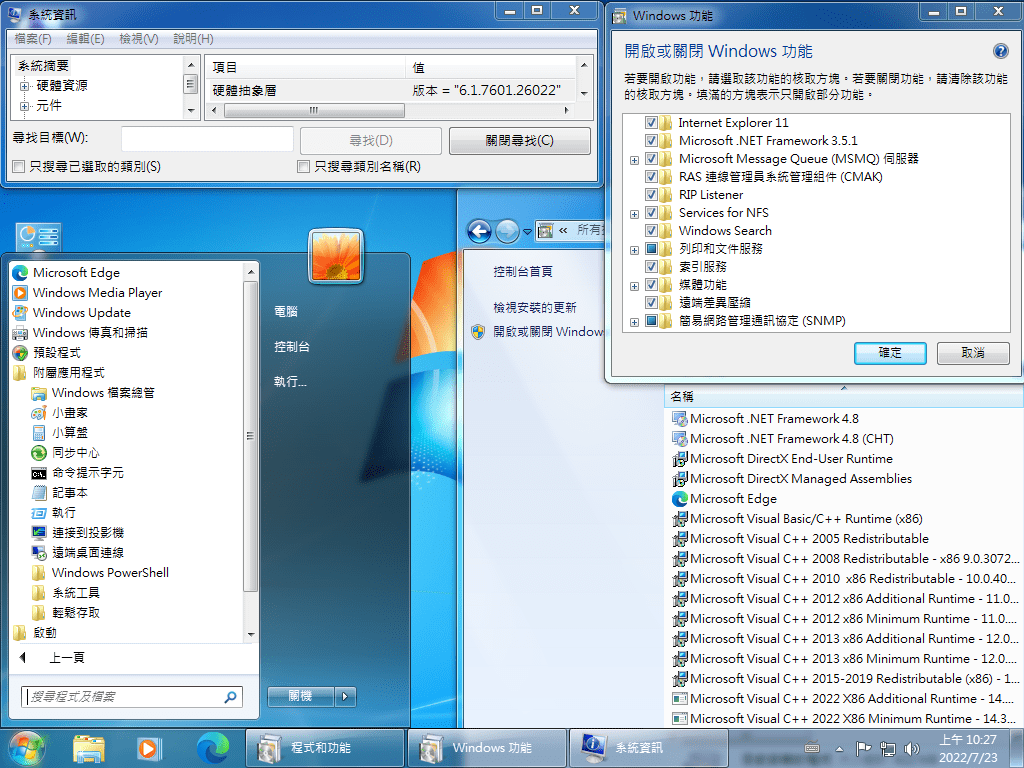
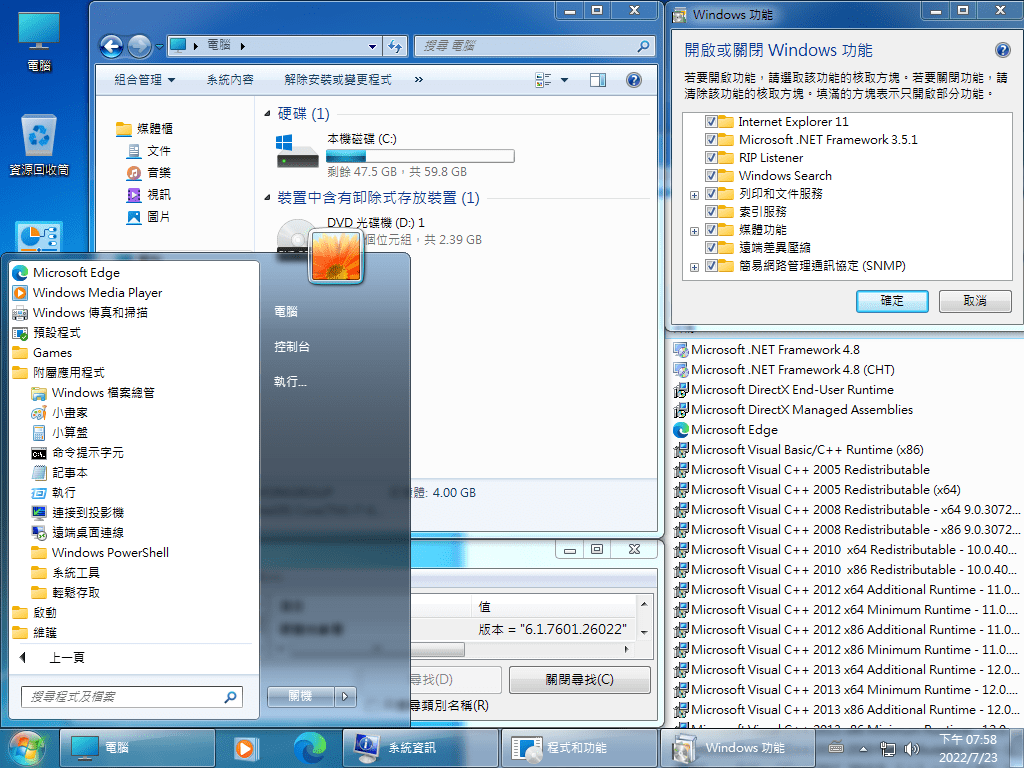
7601.26022_220723

diff --git a/experimental/README.md b/experimental/README.md
@@ -13,10 +13,38 @@ If you are interested in any version, please create an issue or discussion and s
 ----
 
 **Preview：**
-- Ver.1
 ![1](/preview/7601.26022_220723.png)
+
+#### Release Date：2022/07/23
+
+**Edition：** Windows 7 Pro
+
+**OS Build：** 7601.26022
+
+**ISO Size：** 2.39GB
+
+**Download：** not available
+
+**SHA-256：** 6105d52a8ce4e6d7d731c0d36d8408524765bff0c737ca6c3fb2606f5fd10f29
+
+**Highlights：**
+- Windows 11 Icons
+- Included ESU Updates
+- Included USB 3.0 driver
+- Included NVMe driver
+- Preinstall .NET 4.8
+- Preinstall VC++ Runtime
+- Preinstall DX9.0c
+- Preinstall Edge Chromium Enterprise
+- Debloated
+
+----
+
+**Preview：**
+- Ver.1
+![1](/preview/7601.26022_x86_220723.png)
 - Ver.2
-![1](/preview/7601.26022_220723_2.png)
+![1](/preview/7601.26022_x86_220723_2.png)
 
 #### Release Date：2022/07/23
 
@@ -33,6 +61,7 @@ If you are interested in any version, please create an issue or discussion and s
 - Ver.2: e7f6de86057b117d5acf816c8286f25a537bf97b7db80251c84e9ae24b8b20ae
 
 **Highlights：**
+- Included ESU Updates
 - Included USB 3.0 driver
 - Included NVMe driver
 - Preinstall .NET 4.8
